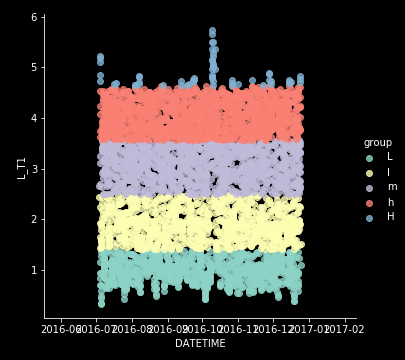
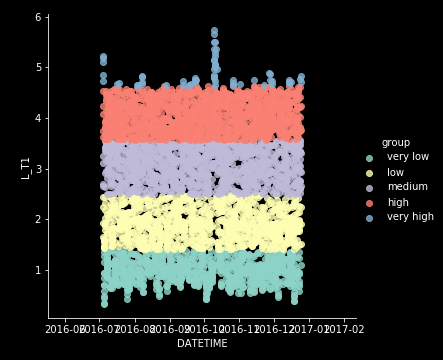
metrics

diff --git a/anomaly/anomaly-detection.py b/anomaly/anomaly-detection.py
@@ -152,23 +152,28 @@ sns.distplot(diff.values, hist=False, kde=True,
 # Discretize data
 #################
 # In[]:
-data = data4[['L_T1']]
+dataDisc = data4[['L_T1']]
 
 # data.plot()
 
 # print(np.array(data).ravel())
 
-data['group'] = pd.cut(np.array(data).ravel(), 5, labels=['L', 'l','m', 'h', 'H'])
+dataDisc['group'] = pd.cut(np.array(dataDisc).ravel(), 5, labels=['very low', 'low','medium', 'high', 'very high'])
 
-data['label'] = data4_labels
+dataDisc['label'] = data4_labels
 
-sns_plot = sns.lmplot(x='DATETIME', y='L_T1', hue='group', data=data.reset_index(), fit_reg=False)
+sns_plot = sns.lmplot(x='DATETIME', y='L_T1', hue='group', data=dataDisc.reset_index(), fit_reg=False)
 plt.savefig("discretization-group.png")
 
-sns_plot = sns.lmplot(x='DATETIME', y='L_T1', hue='label', data=data.reset_index(), fit_reg=False)
+sns_plot = sns.lmplot(x='DATETIME', y='L_T1', hue='label', data=dataDisc.reset_index(), fit_reg=False)
 plt.savefig("discretization-label.png")
 
+# print(''.join(dataDisc['group']))
 
+# from prefixspan import PrefixSpan
+# ps = PrefixSpan(''.join(dataDisc['group']))
+
+# print(ps.frequent(7))
 
 # cut_data.head()
 # time = getDate(data4)
@@ -246,6 +251,33 @@ plt.savefig("pca_distance.png")
 # Comparison
 ##############
 # In[]:
+
+
+# Discretized
+
+print(dataDisc.head())
+
+TP = dataDisc.loc[(dataDisc['label'] == 1) & (dataDisc['group'] == 'very high')]
+FP = dataDisc.loc[(dataDisc['label'] != 1) & (dataDisc['group'] == 'very high')]
+TN = dataDisc.loc[(dataDisc['label'] != 1) & (dataDisc['group'] != 'very high')]
+FN = dataDisc.loc[(dataDisc['label'] == 1) & (dataDisc['group'] != 'very high')]
+
+DiscPrecision = len(TP.index) / ( len(TP.index) + len(FP.index))
+DiscRecall = len(TP.index) / ( len(TP.index) + len(FN.index))
+
+print(DiscPrecision, DiscRecall)
+
+
+# PCA
+TP = anomalyScoresPCA.loc[(anomalyScoresPCA['ATT_FLAG'] == 1) & (anomalyScoresPCA['anomalyScore'] > 0.2)]
+FP = anomalyScoresPCA.loc[(anomalyScoresPCA['ATT_FLAG']!= 1) & (anomalyScoresPCA['anomalyScore'] > 0.2)]
+TN = anomalyScoresPCA.loc[(anomalyScoresPCA['ATT_FLAG']!= 1) & (anomalyScoresPCA['anomalyScore'] <= 0.2)]
+FN = anomalyScoresPCA.loc[(anomalyScoresPCA['ATT_FLAG']!= 1) & (anomalyScoresPCA['anomalyScore'] <= 0.2)]
+
+PCAprecision = len(TP.index) / ( len(TP.index) + len(FP.index))
+PCArecall = len(TP.index) / ( len(TP.index) + len(FN.index))
+
+print(PCAprecision, PCArecall)
 
 
 
